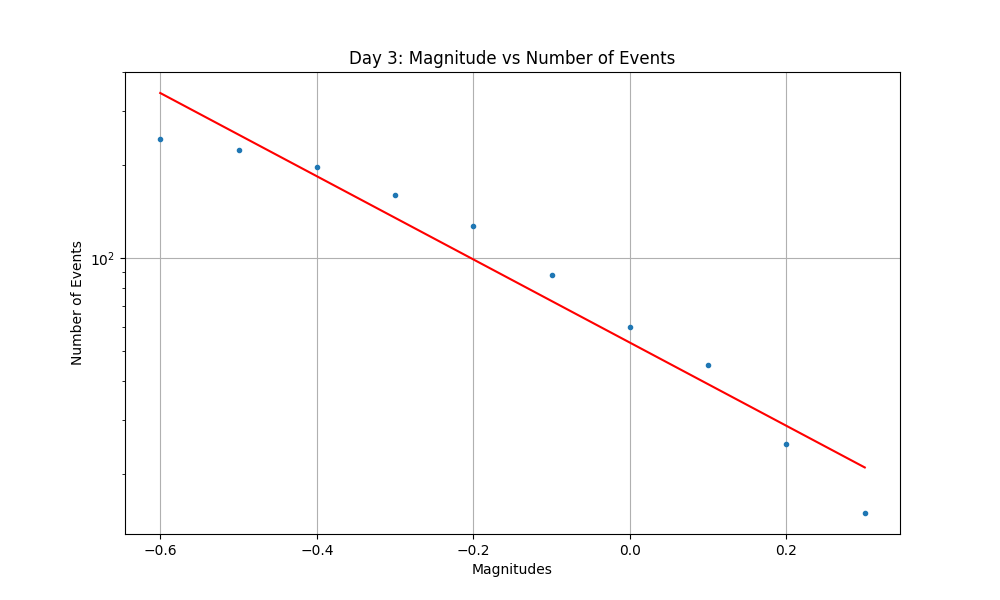
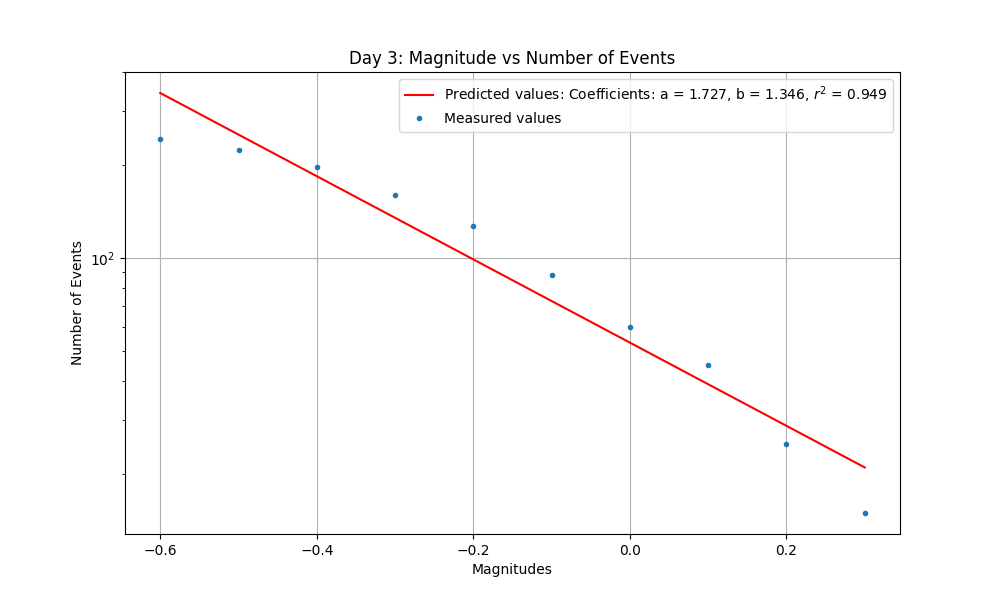
finished the code

Changed region(s): [[0.403, 0.12, 0.899, 0.21]]

diff --git a/examples/seismology.py b/examples/seismology.py
@@ -7,6 +7,14 @@ data = np.loadtxt(r"C:/Users/carla/Repos/goph420-w2024-lab03-stCA/examples/M_dat
 time = data[:,0] # First column of data (time [hours])
 magnitude = data[:,1] # Second column of data (magnitude)
 
+plt.figure(figsize=(10, 6)) 
+plt.plot(time, magnitude, '.') # Plot magnitude against time
+plt.title('Magnitude vs Time') # Set the title for the plot
+plt.xlabel('Time (hours)') # Label the x-axis
+plt.ylabel('Magnitude') # Label the y-axis
+plt.grid(True) # Add a grid for better readability
+plt.savefig ('figures/magnitude_time.png')
+
 day_times = []
 day_magnitudes = []
 for day in range(1, 6): # Loop from day 1 to day 5
@@ -53,6 +61,7 @@ filtered_magnitudes = [filtered_magnitudes_0, filtered_magnitudes_1, filtered_ma
 dif_mang = np.arange(-0.6, 0.4, 0.1)
 values_times = []
 values_magnitudes = []
+
 for m, (vt, vm) in enumerate(zip(filtered_times, filtered_magnitudes)):
     for mag in dif_mang:
         values_magnitudes.append([m for m in vm if m > mag])
@@ -60,51 +69,48 @@ for m, (vt, vm) in enumerate(zip(filtered_times, filtered_magnitudes)):
 
 N = []
 
-#Loop to count the number of values in each filtered list
 for i, (times, magnitudes) in enumerate(zip(values_times, values_magnitudes)):
     count_times = len(times)
     count_magnitudes = len(magnitudes)
     if i % len(dif_mang) == 0:
         N.append([])
     N[-1].append(count_times)
-print(N)
+
+print (N)
+
 for i in range(len(N)):
     plt.figure(figsize=(10, 6))
     plt.plot(dif_mang, N[i], '.') # Plot magnitude against time
-    plt.title(f'Day {i+1}: Magnitude vs Number of Events') # Set the title for each plot
-    plt.xlabel('Magnitudes') # Label the x-axis
-    plt.ylabel('Number of Events') # Label the y-axis
-    plt.grid(True) # Add a grid for better readability
+    plt.title(f'Day {i+1}: Magnitude vs Number of Events') 
+    plt.xlabel('Magnitudes') 
+    plt.ylabel('Number of Events') 
+    plt.grid(True) 
     plt.savefig (f'figures/MvsN_days{i}.png')
 
 for i in range(len(N)):
     plt.figure(figsize=(10, 6))
-    plt.plot(dif_mang, N[i], '.') # Plot magnitude against time
-    plt.title(f'Day {i+1}: Magnitude vs Number of Events') # Set the title for each plot
-    plt.yscale('log')
-    plt.xlabel('Magnitudes') # Label the x-axis
-    plt.ylabel('Number of Events') # Label the y-axis
-    plt.grid(True) # Add a grid for better readability
+    plt.semilogy(dif_mang, N[i], '.') # Plot magnitude against time
+    plt.title(f'Day {i+1}: Magnitude vs Number of Events') 
+    plt.xlabel('Magnitudes') 
+    plt.ylabel('Number of Events') 
+    plt.grid(True) 
     plt.savefig (f'figures/Logscale_MvsN_days{i}.png')
     
 log_N = np.log10(N)
 
-# print (log_N)
-# print (N)
-
 coeficients = []
-residuals = []
+residuals_list = [] 
 r2 = []
 
 for i in range(len(log_N)):
-    coeffs, residuals, r2 = multi_regress(log_N[i], (-dif_mang))
+    coeffs, residuals_i, r2_i = multi_regress(log_N[i], (-dif_mang)) 
     coeficients.append(coeffs)
-
-
-
-#print (coeficients[0][1])
-#print (dif_mang)
-#print (dif_mang[0])
+    residuals_list.append(residuals_i) 
+    r2.append(r2_i)
+    
+# print (f'Coefficients: {coeficients}')
+# print (f'Residuals: {residuals_list}') 
+# print (f'R2: {r2}')
 
 
 prediction = []
@@ -113,15 +119,15 @@ for i in range(len(log_N)):
     b = coeficients[i][1] 
     model =  10 ** (a - b * dif_mang)
     prediction.append(model)
-
     
 for i in range(len(N)):
     plt.figure(figsize=(10, 6))
-    plt.semilogy(dif_mang, prediction[i], 'r-') # Plot magnitude against time
-    plt.semilogy(dif_mang, N[i], '.') # Plot magnitude against time
-    plt.title(f'Day {i+1}: Magnitude vs Number of Events') # Set the title for each plot
-    plt.xlabel('Magnitudes') # Label the x-axis
-    plt.ylabel('Number of Events') # Label the y-axis
-    plt.grid(True) # Add a grid for better readability
+    plt.semilogy(dif_mang, prediction[i], 'r-', label = f'Predicted values: Coefficients: a = {coeficients[i][0]:.3f}, b = {coeficients[i][1]:.3f}, $r^2$ = {r2[i]:.3f}') # Plot magnitude against number of events 
+    plt.semilogy(dif_mang, N[i], '.', label = 'Measured values ')
+    # plt.semilogy(dif_mang, residuals_list[i], 'r.', label='Residuals')
+    plt.title(f'Day {i+1}: Magnitude vs Number of Events') 
+    plt.xlabel('Magnitudes') 
+    plt.ylabel('Number of Events') 
+    plt.legend()
+    plt.grid(True) 
     plt.savefig (f'figures/Prediction_MvsN_days{i}.png')
-    

diff --git a/src/goph420_lab03/regression.py b/src/goph420_lab03/regression.py
@@ -9,6 +9,7 @@ def multi_regress(y, Z):
 # The vector of dependent variable data
 # Z : array_like, shape = (n,m)
 # The matrix of independent variable data
+#
 # Returns
 # -------
 # numpy.ndarray, shape = (m,) or (m,1)
